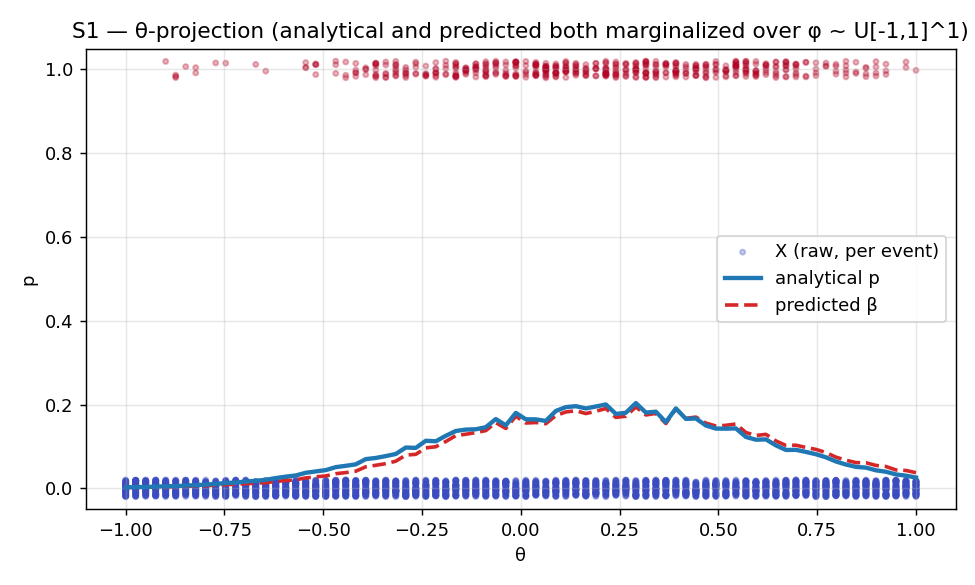
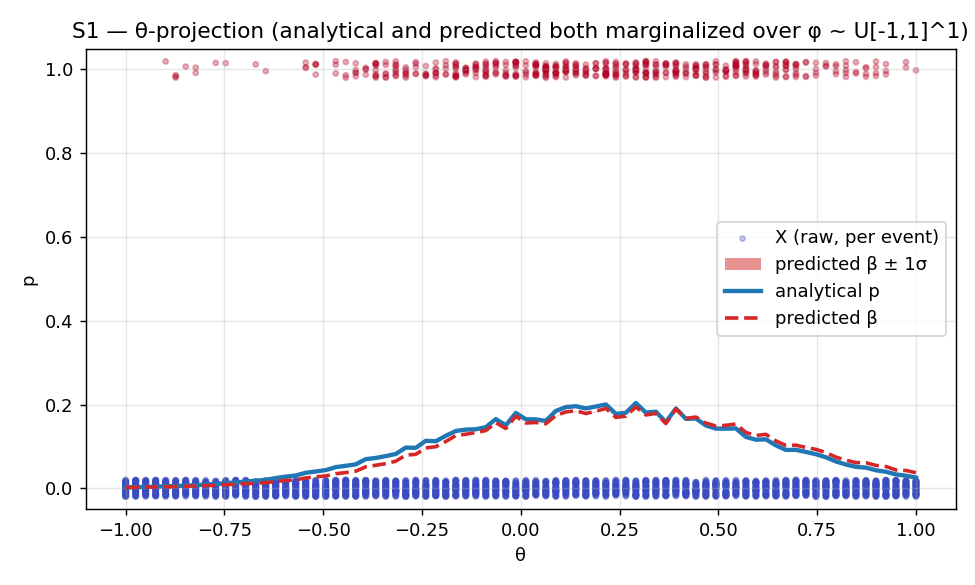
chore(viz): ±1σ band on θ-projection plots (S1_theta, S3_theta)
plot_comparison_1d gains an optional `predicted_sigma` keyword. When
provided, a ±1σ fill_between is drawn around the predicted curve in
the same colour with alpha=0.5 (defaults configurable via
`predicted_color` and `sigma_alpha`).

In the Phase 3 θ-projection plotter, _theta_marginal_predicted now
MC-samples β through the decoder's per-event Gaussian (K=200) at each
(θ, φ_mc) pair, then averages over φ to get a per-MC sample of β̄(θ);
β̄(θ) is the mean across MC samples and σ_β̄(θ) is the std. Pure
epistemic uncertainty on the marginal — the right thing to band.

Heads-up: in our setup the band is *very* tight (mean σ ≈ 0.00013,
max ≈ 0.00056, i.e. ~0.07 % of peak β̄). Two reasons this is honest:

  - Trained CNP epistemic σ is already small (~0.0002 per event,
    visible in the coverage diagnostic).
  - Marginal averaging over 200 φ samples shrinks σ by another √200.

Visually the band is sub-pixel-wide but the legend swatch shows it.
If we want a more visible band the σ semantics need to change (e.g.
σ_β at φ_peak instead of the marginal) — ask before doing that, the
current value is the mathematically correct predictive uncertainty
on β̄(θ).

diff --git a/scripts/phase3_plot_reconstruction.py b/scripts/phase3_plot_reconstruction.py
@@ -384,13 +384,23 @@ THETA_1D_EXTRA_FOR = {"S1", "S3"}
 
 
 def _theta_marginal_predicted(
-    gen, cnp, theta_grid: np.ndarray, n_phi_mc: int = 200, seed: int = 11,
-) -> tuple[np.ndarray, np.ndarray]:
-    """Predict the φ-marginalized ``β̄(θ)`` and analytical ``p̄(θ)``.
+    gen, cnp, theta_grid: np.ndarray,
+    n_phi_mc: int = 200, n_decoder_samples: int = 200, seed: int = 11,
+) -> tuple[np.ndarray, np.ndarray, np.ndarray, StandardBatch]:
+    """Predict the φ-marginalized ``β̄(θ)`` with a propagated ``σ_β̄(θ)``.
 
-    Used for FULL-mode scenarios when projecting onto θ. ``ctx`` is
-    returned alongside the curves so the caller can scatter the raw
-    binary X events at each trial's θ.
+    For each θ, MC samples β through the decoder's per-event Gaussian at
+    ``n_phi_mc`` random φ points, then averages over φ to get a per-MC
+    sample of ``β̄(θ)``. ``β̄(θ)`` is the mean across MC samples;
+    ``σ_β̄(θ)`` is the std — purely epistemic uncertainty on the marginal.
+
+    Returns
+    -------
+    (p_curve, beta_curve, sigma_curve, ctx)
+        ``p_curve``      analytical ``p̄(θ)`` over the same θ grid.
+        ``beta_curve``   predicted ``β̄(θ)``.
+        ``sigma_curve``  ``±1σ`` predictive band on ``β̄(θ)``.
+        ``ctx``          the context batch (so the caller can overlay raw X).
     """
     rng = np.random.default_rng(seed)
     G = theta_grid.shape[0]
@@ -399,24 +409,38 @@ def _theta_marginal_predicted(
 
     # Analytical p̄(θ) via MC over φ.
     theta_per_event = theta[:, None, :]
-    p_at_phi = gen.truth.evaluate(theta=theta_per_event, phi=phi_mc)  # [G, n_phi_mc]
+    p_at_phi = gen.truth.evaluate(theta=theta_per_event, phi=phi_mc)
     p_curve = p_at_phi.mean(axis=1)
 
-    # Predicted β̄(θ) via MC over φ for each θ.
+    # Predicted β̄(θ) via MC sampling of β at each (θ, φ_mc), then mean over φ.
     ctx = _build_context_FULL(gen, theta=theta, n_ctx=N_CTX, seed=seed)
     tgt_labels = np.zeros((G, n_phi_mc), dtype=np.int8)
     tgt = StandardBatch(
-        mode=InputMode.FULL, theta=theta, phi=phi_mc, labels=tgt_labels
+        mode=InputMode.FULL, theta=theta, phi=phi_mc, labels=tgt_labels,
     )
-    beta_at_phi = _predict_at(cnp, ctx, tgt)                    # [G, n_phi_mc]
-    beta_curve = beta_at_phi.mean(axis=1)
-    return p_curve, beta_curve, ctx
+    cnp.eval()
+    with torch.no_grad():
+        out = cnp(ctx, tgt)
+        sigma = torch.nn.functional.softplus(out.log_sigma)         # [G, n_phi_mc]
+        eps = torch.randn(
+            n_decoder_samples, *out.mu_logit.shape,
+            dtype=out.mu_logit.dtype, device=out.mu_logit.device,
+        )
+        beta_samples = torch.sigmoid(
+            out.mu_logit.unsqueeze(0) + sigma.unsqueeze(0) * eps
+        )                                                            # [K, G, n_phi_mc]
+        beta_per_mc = beta_samples.mean(dim=2)                       # [K, G]
+    beta_curve = beta_per_mc.mean(dim=0).cpu().numpy()
+    sigma_curve = beta_per_mc.std(dim=0).cpu().numpy()
+    return p_curve, beta_curve, sigma_curve, ctx
 
 
 def _plot_theta_1d_full(name: str, gen, cnp, out_path: Path) -> None:
-    """θ-marginal 1-D plot for FULL-mode scenarios (S1, S3)."""
+    """θ-marginal 1-D plot for FULL-mode scenarios (S1, S3) with ±1σ band."""
     theta_grid = _grid_1d()
-    p_curve, beta_curve, ctx = _theta_marginal_predicted(gen, cnp, theta_grid)
+    p_curve, beta_curve, sigma_curve, ctx = _theta_marginal_predicted(
+        gen, cnp, theta_grid
+    )
 
     # Raw per-event dots: (θ_k, X_ki) — one dot per event in the context.
     raw_theta = np.repeat(ctx.theta[:, 0], N_CTX)
@@ -426,6 +450,7 @@ def _plot_theta_1d_full(name: str, gen, cnp, out_path: Path) -> None:
         x=theta_grid,
         analytical=p_curve,
         predicted=beta_curve,
+        predicted_sigma=sigma_curve,
         out_path=out_path,
         title=(
             f"{name} — θ-projection (analytical and predicted "

diff --git a/viz/dispatch.py b/viz/dispatch.py
@@ -158,12 +158,18 @@ def plot_comparison_1d(
     overlay_label: str = "samples",
     analytical_label: str = "analytical p",
     predicted_label: str = "predicted β",
+    predicted_sigma: np.ndarray | None = None,
+    predicted_color: str = "C3",
+    sigma_alpha: float = 0.5,
 ) -> Path:
     """Overlay analytical and predicted curves on the same 1-D axes.
 
     Implements the comparison rule for 1-D fields: both curves on a
     single set of axes, with raw samples (binary X or per-trial rates)
     optionally scattered underneath for context.
+
+    If ``predicted_sigma`` is provided, a ``±1σ`` band is filled around
+    the predicted curve in the same colour, with alpha ``sigma_alpha``.
     """
     out_path = Path(out_path)
     out_path.parent.mkdir(parents=True, exist_ok=True)
@@ -171,6 +177,10 @@ def plot_comparison_1d(
         raise ValueError(
             f"shapes must match: x={x.shape}, analytical={analytical.shape}, "
             f"predicted={predicted.shape}"
+        )
+    if predicted_sigma is not None and predicted_sigma.shape != predicted.shape:
+        raise ValueError(
+            f"predicted_sigma.shape={predicted_sigma.shape} != predicted.shape={predicted.shape}"
         )
 
     fig, ax = plt.subplots(figsize=(7.5, 4.5))
@@ -182,10 +192,20 @@ def plot_comparison_1d(
             s=8, alpha=0.3, c=oy, cmap="coolwarm", label=overlay_label,
             zorder=1,
         )
+    if predicted_sigma is not None:
+        ax.fill_between(
+            x,
+            predicted - predicted_sigma,
+            predicted + predicted_sigma,
+            color=predicted_color, alpha=sigma_alpha,
+            linewidth=0,
+            label=f"{predicted_label} ± 1σ",
+            zorder=2,
+        )
     ax.plot(x, analytical, color="C0", linewidth=2.4, label=analytical_label, zorder=3)
     ax.plot(
-        x, predicted, color="C3", linewidth=2.0, linestyle="--",
-        label=predicted_label, zorder=2,
+        x, predicted, color=predicted_color, linewidth=2.0, linestyle="--",
+        label=predicted_label, zorder=4,
     )
     ax.set_title(title)
     ax.set_xlabel(xlabel)
